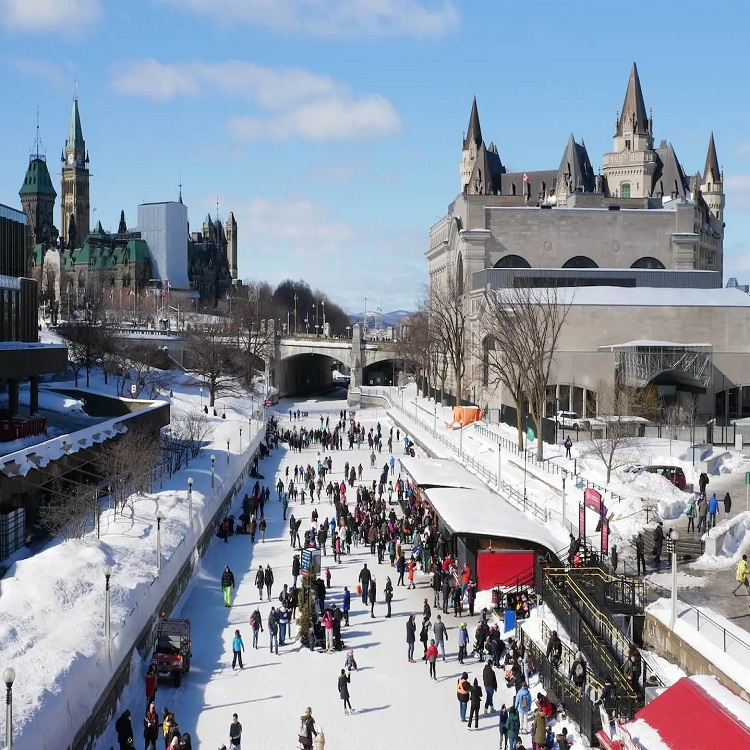
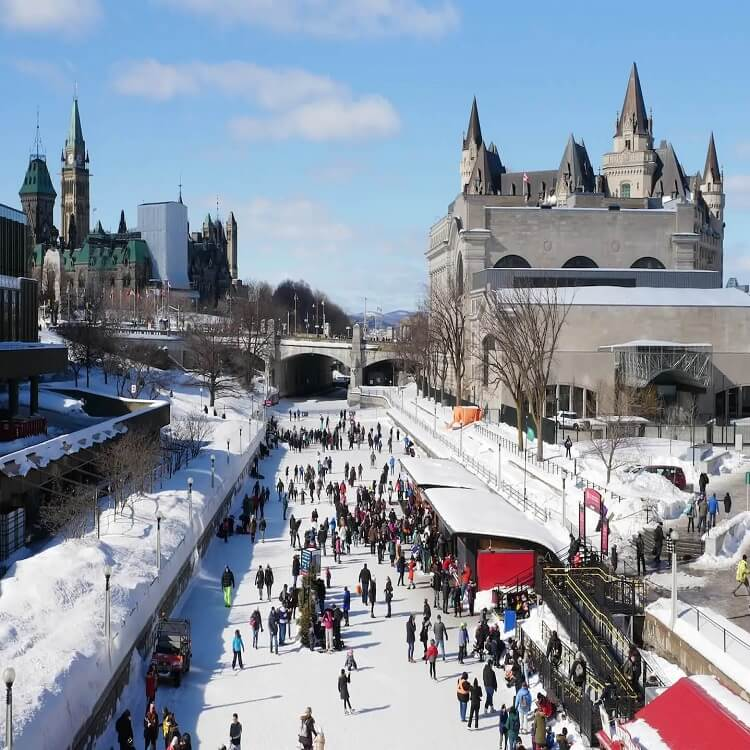
index.html

diff --git a/lesson06/index.html b/lesson06/index.html
@@ -51,7 +51,7 @@
                 <source media="(max-width: 600px)" srcset="images/ottawa-350x30.webp">
                 <source media="(max-width: 768px)" srcset="images/ottawa-medium.webp">
                 <source media="(max-width: 1024px)" srcset="images/ottawa-large.webp">
-                <img src="images/ottawa.jpg" alt="Ottawa Canal">
+                <img src="images/ottawa.webp" alt="Ottawa Canal">
             </picture>
         </div>
 
